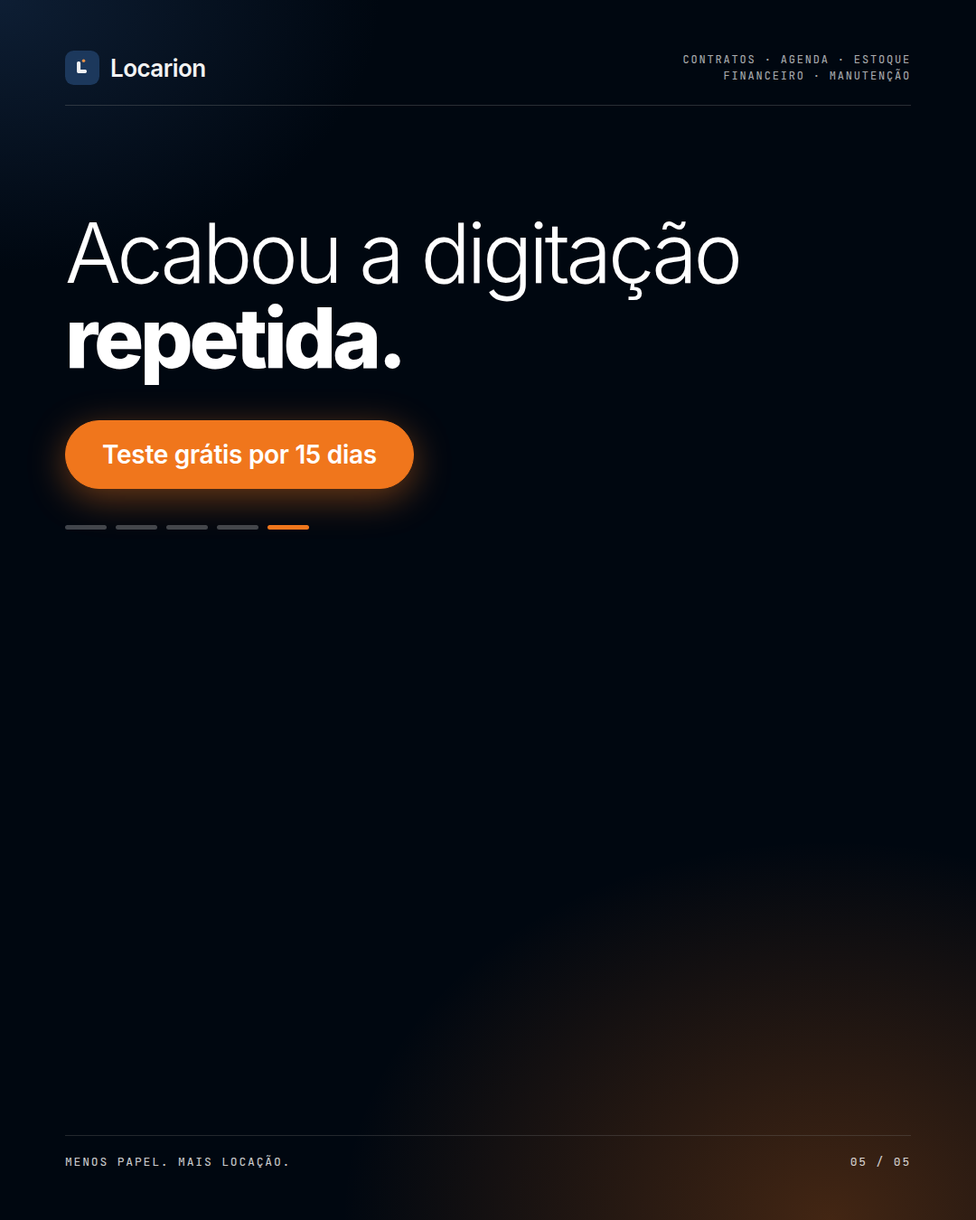
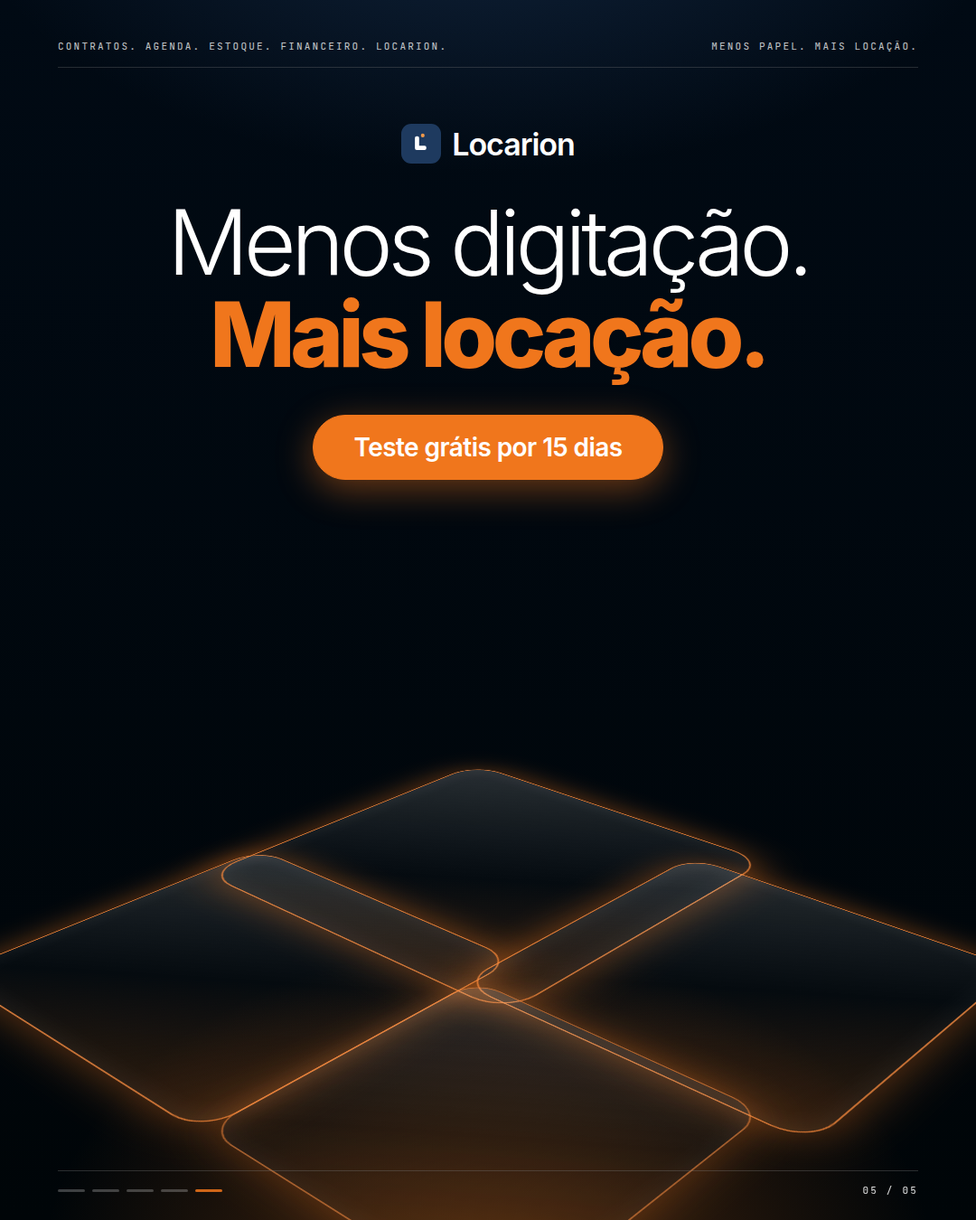
Restyle Locarion posts closer to Behance reference
Centered logo and headline, micro-caps header/footer rules, and
SVG/CSS 3D objects (ribbed fan, glass tiles, gem, phone with app icon)
in Locarion orange.

Claude-Session: https://claude.ai/code/session_017TwVGze7yevdfZZz7CFSM4

diff --git a/marketing/gerar-posts.js b/marketing/gerar-posts.js
@@ -8,127 +8,160 @@ const ROOT = path.resolve(__dirname, '..');
 const OUT = path.join(__dirname, 'posts');
 const A = (f) => 'file://' + path.join(ROOT, 'assets', f);
 
-const MARK = `<svg viewBox="0 0 32 32" width="38" height="38"><rect width="32" height="32" rx="8" fill="#1E3A5F"/><g transform="translate(4 4)"><path d="M8.4 6 L9 6 Q10.4 6 10.4 7.4 L10.4 13.6 L14.8 13.6 Q16.2 13.6 16.2 15 L16.2 15.6 Q16.2 17 14.8 17 L8.4 17 Q7 17 7 15.6 L7 7.4 Q7 6 8.4 6 Z" fill="#fff"/><circle cx="13.3" cy="5.4" r="1.5" fill="#F2994A"/></g></svg>`;
+const FONTS = fs.readFileSync(path.join(__dirname, 'fonts.css'), 'utf8');
+const MARK = (sz) => `<svg viewBox="0 0 32 32" width="${sz}" height="${sz}"><rect width="32" height="32" rx="8" fill="#1E3A5F"/><g transform="translate(4 4)"><path d="M8.4 6 L9 6 Q10.4 6 10.4 7.4 L10.4 13.6 L14.8 13.6 Q16.2 13.6 16.2 15 L16.2 15.6 Q16.2 17 14.8 17 L8.4 17 Q7 17 7 15.6 L7 7.4 Q7 6 8.4 6 Z" fill="#fff"/><circle cx="13.3" cy="5.4" r="1.5" fill="#F2994A"/></g></svg>`;
 
 // *negrito*  _negrito laranja_  \n quebra de linha
 const fmt = (s) => s.replace(/_(.+?)_/g, '<b class="o">$1</b>').replace(/\*(.+?)\*/g, '<b>$1</b>').replace(/\n/g, '<br>');
 
-const FONTS = fs.readFileSync(path.join(__dirname, 'fonts.css'), 'utf8');
 const CSS = FONTS + `
 *{box-sizing:border-box;margin:0;padding:0}
-:root{--orange:#F0761C;--orange-d:#D9620F;--blue:#1E3A5F;--deep:#000710;--ink:#0F1013}
+:root{--orange:#F0761C;--orange-d:#D9620F;--blue:#1E3A5F;--deep:#000710}
 body{font-family:Inter,system-ui,sans-serif;width:1080px;-webkit-font-smoothing:antialiased}
-.s{position:relative;width:1080px;overflow:hidden;display:flex;flex-direction:column;padding:56px 72px}
-.dark{background:radial-gradient(900px 700px at 85% 100%,rgba(240,118,28,.28),transparent 60%),radial-gradient(700px 500px at 0% 0%,rgba(30,58,95,.45),transparent 60%),var(--deep);color:#fff}
-.light{background:radial-gradient(900px 600px at 90% 105%,rgba(240,118,28,.16),transparent 60%),linear-gradient(180deg,#fff,#EEF0F4);color:var(--ink)}
-.hd{display:flex;align-items:center;justify-content:space-between;font-family:'JetBrains Mono',monospace;font-size:13px;letter-spacing:.14em;text-transform:uppercase;opacity:.95;padding-bottom:22px;border-bottom:1px solid;border-color:rgba(127,127,127,.35)}
-.brand{display:flex;align-items:center;gap:12px;font-family:Inter;font-weight:600;font-size:26px;letter-spacing:-.02em;text-transform:none}
-.hd small{font-size:12px;opacity:.7;text-align:right;line-height:1.5}
-.ft{margin-top:auto;position:relative;z-index:2;display:flex;justify-content:space-between;font-family:'JetBrains Mono',monospace;font-size:13px;letter-spacing:.14em;text-transform:uppercase;padding-top:20px;border-top:1px solid rgba(127,127,127,.35);opacity:.8}
-.body{flex:1;display:flex;flex-direction:column;position:relative;padding:56px 0 36px}
-h1{font-weight:300;font-size:92px;line-height:1.02;letter-spacing:-.045em}
+.s{position:relative;width:1080px;overflow:hidden;display:flex;flex-direction:column;align-items:center;text-align:center;padding:44px 64px 0}
+.dark{background:radial-gradient(800px 600px at 50% 105%,rgba(240,118,28,.30),transparent 62%),radial-gradient(900px 500px at 50% -10%,rgba(30,58,95,.55),transparent 65%),linear-gradient(180deg,#010a14,#000508);color:#fff}
+.light{background:radial-gradient(900px 500px at 50% 0%,#fff,transparent 70%),linear-gradient(180deg,#F6F7F9,#DCDFE5);color:#0F1013}
+.top{width:100%;display:flex;justify-content:space-between;font-family:'JetBrains Mono',monospace;font-size:11px;letter-spacing:.2em;text-transform:uppercase;opacity:.75;padding-bottom:16px;border-bottom:1px solid rgba(127,127,127,.4);z-index:3}
+.logo{display:flex;align-items:center;gap:12px;font-weight:600;font-size:34px;letter-spacing:-.03em;margin-top:62px;z-index:3}
+.chip{margin-top:30px;font-family:'JetBrains Mono',monospace;font-size:14px;letter-spacing:.2em;text-transform:uppercase;color:var(--orange);z-index:3}
+.light .chip{color:var(--orange-d)}
+h1{font-weight:300;font-size:100px;line-height:1.02;letter-spacing:-.055em;margin-top:36px;z-index:3}
 h1 b{font-weight:800}
 h1 b.o{color:var(--orange)}
 .light h1 b.o{color:var(--orange-d)}
-.sub{margin-top:30px;font-size:34px;font-weight:400;letter-spacing:-.02em;opacity:.8;line-height:1.25}
+.sub{margin-top:26px;font-size:34px;font-weight:300;letter-spacing:-.03em;line-height:1.2;opacity:.9;z-index:3}
 .sub b{font-weight:600}
-.pill{display:inline-flex;align-self:flex-start;margin-top:44px;border:1.5px solid;border-color:currentColor;border-radius:999px;padding:20px 40px;font-size:28px;font-weight:400;letter-spacing:-.01em}
+.pill{margin-top:38px;border:1.5px solid currentColor;border-radius:999px;padding:18px 44px;font-size:28px;font-weight:300;letter-spacing:-.02em;z-index:3}
 .pill.fill{background:var(--orange);border-color:var(--orange);color:#fff;font-weight:600;box-shadow:0 10px 40px rgba(240,118,28,.45)}
-.chip{display:inline-block;align-self:flex-start;font-family:'JetBrains Mono',monospace;font-size:15px;letter-spacing:.14em;text-transform:uppercase;color:var(--orange);border:1px solid var(--orange);border-radius:999px;padding:8px 16px;margin-bottom:30px}
-.light .chip{color:var(--orange-d);border-color:var(--orange-d)}
-.shot{position:absolute;border-radius:22px;box-shadow:0 40px 90px rgba(0,0,0,.45),0 0 0 1px rgba(127,127,127,.25)}
-.num{font-family:'JetBrains Mono',monospace;font-size:15px;letter-spacing:.14em;color:var(--orange);margin-bottom:24px}
-.big{font-weight:800;font-size:250px;letter-spacing:-.06em;line-height:.9;color:var(--orange)}
-.light .big{color:var(--orange-d)}
-.dots{display:flex;gap:10px;margin-top:40px}
-.dots i{width:46px;height:5px;border-radius:3px;background:currentColor;opacity:.25}
+.bigp{font-weight:800;font-size:230px;letter-spacing:-.07em;line-height:.9;margin-top:34px;color:var(--orange);z-index:3}
+.light .bigp{color:var(--orange-d)}
+.obj{position:absolute;left:0;right:0;bottom:0;pointer-events:none;z-index:1}
+.foot{position:absolute;left:64px;right:64px;bottom:26px;display:flex;justify-content:space-between;align-items:center;font-family:'JetBrains Mono',monospace;font-size:11px;letter-spacing:.2em;text-transform:uppercase;padding-top:14px;border-top:1px solid rgba(127,127,127,.4);opacity:.85;z-index:4}
+.dots{display:flex;gap:8px}
+.dots i{width:30px;height:3px;border-radius:2px;background:currentColor;opacity:.28}
 .dots i.on{background:var(--orange);opacity:1}
-.orb{position:absolute;border-radius:50%;background:radial-gradient(circle at 30% 28%,#FFB070,#F0761C 45%,#B9480A 100%);box-shadow:0 40px 90px rgba(240,118,28,.45)}
-.light .orb{opacity:.95}
+.tile{position:absolute;border-radius:44px;border:2px solid rgba(255,140,60,.75);background:linear-gradient(145deg,rgba(255,255,255,.16),rgba(255,255,255,.02) 55%,rgba(240,118,28,.20));box-shadow:0 0 60px rgba(240,118,28,.45),inset 0 0 40px rgba(255,255,255,.07);transform:rotateX(62deg) rotateZ(42deg)}
+.phone{position:absolute;border-radius:70px;background:#0b0e13;border:10px solid #1b1f26;box-shadow:0 0 0 2px #3a3f48,0 50px 100px rgba(0,0,0,.55);overflow:hidden}
+.phone img{width:100%;display:block}
+.icon{position:absolute;border-radius:60px;background:#1E3A5F;box-shadow:0 40px 80px rgba(0,0,0,.45),inset 0 3px 0 rgba(255,255,255,.25);display:flex;align-items:center;justify-content:center}
+.shotimg{position:absolute;left:50%;transform:translateX(-50%);border-radius:28px 28px 0 0;box-shadow:0 -10px 90px rgba(240,118,28,.25),0 0 0 1px rgba(127,127,127,.35)}
 `;
 
-function slide(s, i, total) {
-  const H = s.h || 1350;
-  const counter = total > 1 ? `${String(i + 1).padStart(2, '0')} / ${String(total).padStart(2, '0')}` : 'locarion.app';
-  const dots = total > 1 ? `<div class="dots">${Array.from({ length: total }, (_, k) => `<i class="${k === i ? 'on' : ''}"></i>`).join('')}</div>` : '';
-  let inner = '';
-  const head = `${s.chip ? `<div class="chip">${s.chip}</div>` : ''}${s.num ? `<div class="num">${s.num}</div>` : ''}<h1 ${s.fs ? `style="font-size:${s.fs}px"` : ''}>${fmt(s.t)}</h1>${s.sub ? `<div class="sub">${fmt(s.sub)}</div>` : ''}${s.cta ? `<div class="pill ${s.fill ? 'fill' : ''}">${s.cta}</div>` : ''}`;
-  if (s.kind === 'shot') {
-    inner = `${head}<img class="shot" src="${A(s.img)}" style="${s.pos}">`;
-  } else if (s.kind === 'phone') {
-    inner = `<div style="max-width:560px">${head}</div><img class="shot" src="${A('celular-escuro.webp')}" style="width:340px;right:70px;bottom:96px;transform:rotate(4deg);border-radius:40px;border:8px solid #15191E">`;
-  } else if (s.kind === 'big') {
-    inner = `${s.chip ? `<div class="chip">${s.chip}</div>` : ''}<div class="big">${s.big}</div>${head.replace(/<div class="chip">.*?<\/div>/, '')}`;
-  } else {
-    inner = `<div style="margin-top:${s.mt ?? 60}px">${head}</div>${s.orb ? `<div class="orb" style="${s.orb}"></div>` : ''}`;
+// ---------- objetos 3D (SVG/CSS) ----------
+function fan(W, H, dark) {
+  const n = 31, cx = W / 2, cy = H + 140, R = H + 40, parts = [];
+  for (let k = 0; k < n; k++) {
+    const t = k / (n - 1), a = -66 + t * 132, hi = Math.max(0, 1 - Math.abs(a - 16) / 70);
+    const mid = `hsl(${22 + hi * 12} 95% ${34 + hi * 26}%)`, bright = `hsl(${28 + hi * 10} 100% ${58 + hi * 30}%)`;
+    parts.push(`<linearGradient id="f${k}" x1="0" x2="1"><stop offset="0" stop-color="#2a0c00"/><stop offset=".38" stop-color="${mid}"/><stop offset=".52" stop-color="${bright}"/><stop offset="1" stop-color="#2a0c00"/></linearGradient>
+    <rect x="${cx - 24}" y="${cy - R}" width="48" height="${R}" rx="24" fill="url(#f${k})" transform="rotate(${a} ${cx} ${cy})"/>`);
   }
+  return `<svg viewBox="0 0 ${W} ${H}" width="${W}" height="${H}"><defs><filter id="gl"><feGaussianBlur stdDeviation="14"/></filter></defs><g filter="url(#gl)" opacity=".5">${parts[15]}</g>${parts.join('')}</svg>`;
+}
+function gem(sz) {
+  const P = (pts, a, b, op = 1) => `<polygon points="${pts}" fill="url(#g${a}${b})" stroke="rgba(255,255,255,.45)" stroke-width="1.5" opacity="${op}"/>`;
+  const gr = (id, c1, c2) => `<linearGradient id="g${id}" x1="0" y1="0" x2="1" y2="1"><stop offset="0" stop-color="${c1}"/><stop offset="1" stop-color="${c2}"/></linearGradient>`;
+  return `<svg viewBox="0 0 600 560" width="${sz}" height="${sz * 560 / 600}"><defs>
+  ${gr('aa', '#FFE2C2', '#FF9A4A')}${gr('bb', '#FFB26B', '#C85408')}${gr('cc', '#FF8A2E', '#7A2C00')}${gr('dd', '#FFD2A0', '#E0690F')}${gr('ee', '#B24A06', '#3F1400')}${gr('ff', '#FFC48A', '#D8620C')}
+  <filter id="sh"><feGaussianBlur stdDeviation="20"/></filter></defs>
+  <ellipse cx="300" cy="540" rx="230" ry="22" fill="#000" opacity=".28" filter="url(#sh)"/>
+  ${P('80,220 190,110 190,220', 'a', 'a')}${P('190,110 190,220 300,220', 'd', 'd')}${P('190,110 410,110 300,220', 'a', 'a', .95)}${P('410,110 300,220 410,220', 'f', 'f')}${P('410,110 520,220 410,220', 'b', 'b')}
+  ${P('80,220 190,220 300,520', 'c', 'c')}${P('190,220 300,220 300,520', 'b', 'b')}${P('300,220 410,220 300,520', 'd', 'd')}${P('410,220 520,220 300,520', 'e', 'e')}</svg>`;
+}
+const tiles = () => `<div style="position:absolute;left:0;right:0;bottom:0;height:640px;perspective:1600px;overflow:hidden">
+ <div class="tile" style="width:440px;height:440px;left:40px;bottom:60px"></div>
+ <div class="tile" style="width:440px;height:440px;left:320px;bottom:170px"></div>
+ <div class="tile" style="width:440px;height:440px;left:600px;bottom:50px"></div>
+ <div class="tile" style="width:440px;height:440px;left:320px;bottom:-110px;opacity:.75"></div></div>`;
+const blob = (c1, c2) => `<svg viewBox="0 0 1080 620" width="1080" height="620" style="position:absolute;left:0;bottom:0"><defs><linearGradient id="bl" x1="0" y1="0" x2="1" y2="1"><stop offset="0" stop-color="${c1}"/><stop offset="1" stop-color="${c2}"/></linearGradient></defs><path d="M0 330 C140 190 330 210 470 300 C640 410 760 250 920 230 C1010 220 1060 250 1080 270 L1080 620 L0 620Z" fill="url(#bl)"/><path d="M0 470 C180 400 330 430 430 500 C520 560 600 560 700 520 L700 620 L0 620Z" fill="#FFB070" opacity=".5"/></svg>`;
+
+function object(kind, o, H, dark) {
+  const off = H > 1400 ? 300 : 0;
+  switch (kind) {
+    case 'fan': return `<div class="obj" style="height:${640 + off}px">${fan(1080, 600 + off, dark)}</div>`;
+    case 'gem': return `<div class="obj" style="height:${620 + off}px;display:flex;justify-content:center;align-items:flex-end;padding-bottom:95px">${gem(560 + off / 2)}</div>`;
+    case 'tiles': return `<div class="obj" style="height:${640 + off}px">${tiles()}</div>`;
+    case 'phone': return `<div class="obj" style="height:${760 + off}px">${blob('#FF9A4A', '#D9620F')}
+      <div class="icon" style="width:190px;height:190px;left:70px;bottom:250px;transform:rotate(-14deg)">${MARK(130)}</div>
+      <div class="phone" style="width:460px;height:760px;left:50%;margin-left:-190px;bottom:-190px;transform:rotate(7deg)"><img src="${A('celular-escuro.webp')}"></div></div>`;
+    case 'shot': return `<div class="obj" style="height:${760 + off}px">${blob('#FF9A4A', '#D9620F').replace('<path d="M0 470', '<path style="display:none" d="M0 470')}
+      <img class="shotimg" src="${A(o.img)}" style="width:${o.w || 940}px;bottom:${o.b ?? -20}px"></div>`;
+    default: return '';
+  }
+}
+
+function slide(s, i, total) {
+  const H = s.h || 1350, dark = s.theme === 'dark';
+  const dots = total > 1 ? `<div class="dots">${Array.from({ length: total }, (_, k) => `<i class="${k === i ? 'on' : ''}"></i>`).join('')}</div>` : '<span></span>';
+  const obj = s.obj ? object(s.obj, s, H, dark) : '';
   return `<html><head><style>${CSS}</style></head><body><div class="s ${s.theme}" style="height:${H}px">
-  <div class="hd"><div class="brand">${MARK}Locarion</div><small>Contratos · Agenda · Estoque<br>Financeiro · Manutenção</small></div>
-  <div class="body">${inner}${s.nodots ? '' : dots}</div>
-  <div class="ft"><span>Menos papel. Mais locação.</span><span>${counter}</span></div></div></body></html>`;
+  <div class="top"><span>Contratos. Agenda. Estoque. Financeiro. Locarion.</span><span>Menos papel. Mais locação.</span></div>
+  <div class="logo">${MARK(44)}Locarion</div>
+  ${s.chip ? `<div class="chip">${s.chip}</div>` : ''}
+  ${s.big ? `<div class="bigp">${s.big}</div>` : ''}
+  <h1 ${s.fs ? `style="font-size:${s.fs}px"` : ''}>${fmt(s.t)}</h1>
+  ${s.sub ? `<div class="sub">${fmt(s.sub)}</div>` : ''}
+  ${s.cta ? `<div class="pill ${s.fill ? 'fill' : ''}">${s.cta}</div>` : ''}
+  ${obj}
+  <div class="foot">${dots}<span>${total > 1 ? `${String(i + 1).padStart(2, '0')} / ${String(total).padStart(2, '0')}` : 'locarion.app'}</span></div></div></body></html>`;
 }
 
 const D = 'dark', L = 'light';
 const posts = {
   '01-carrossel-caderno': [
-    { theme: D, chip: 'Para donos de locadora', t: 'Sua locadora ainda roda no _caderno_ e no *WhatsApp?*', sub: 'Menos improviso. *Mais controle.*', orb: 'width:420px;height:420px;right:-130px;bottom:60px', mt: 30 },
-    { theme: L, num: '01', t: 'Quantas vezes você já alugou o que _não tinha_ no pátio?', orb: 'width:300px;height:300px;right:-80px;bottom:80px' },
-    { theme: D, num: '02', t: 'Contrato digitado *na mão*, de novo.', orb: 'width:300px;height:300px;right:-80px;bottom:80px' },
-    { theme: L, num: '03', t: 'Devolução esquecida = equipamento parado e _dinheiro perdido._', orb: 'width:300px;height:300px;right:-80px;bottom:80px' },
-    { theme: D, num: '04', t: 'Cobrança: “_quem ainda não pagou?_” e ninguém sabe.', orb: 'width:300px;height:300px;right:-80px;bottom:80px' },
-    { theme: L, t: 'Existe um jeito *mais simples.*', sub: 'Contrato, agenda, estoque e financeiro num lugar só.', cta: 'Teste grátis por 15 dias', fill: true },
+    { theme: D, t: 'Sua locadora ainda roda\nno _caderno_ e no *WhatsApp?*', sub: 'Menos improviso. *Mais controle.*', fs: 84, obj: 'phone' },
+    { theme: L, chip: '01', t: 'Quantas vezes você\njá alugou o que\n_não tinha_ no pátio?', fs: 88, obj: 'gem' },
+    { theme: D, chip: '02', t: 'Contrato digitado\n*na mão*, de novo.', obj: 'fan' },
+    { theme: L, chip: '03', t: 'Devolução esquecida =\n*equipamento parado*\ne _dinheiro perdido._', fs: 84, obj: 'gem' },
+    { theme: D, chip: '04', t: 'Cobrança:\n“_quem ainda não pagou?_”\nE ninguém sabe.', fs: 86, obj: 'tiles' },
+    { theme: L, t: 'Existe um jeito\n*mais simples.*', sub: 'Contrato, agenda, estoque e financeiro\n*num lugar só.*', cta: 'Teste grátis por 15 dias', obj: 'phone' },
   ],
   '02-pergunta-equipamento': [
-    { theme: D, chip: 'Conta pra gente', t: 'Qual equipamento mais _some_ do seu controle?', sub: '*Betoneira*, *andaime*, *escora* ou *martelete?*', cta: 'Responda nos comentários', orb: 'width:380px;height:380px;right:-110px;bottom:140px' },
+    { theme: D, chip: 'Conta pra gente', t: 'Qual equipamento\nmais _some_ do\nseu controle?', sub: '*Betoneira, andaime, escora* ou *martelete?*', cta: 'Responda nos comentários', obj: 'fan' },
   ],
   '03-reels-capa': [
-    { theme: D, h: 1920, chip: 'Reels', t: 'Um dia na locadora _sem sistema._', sub: 'Tem que ser *assim?*', cta: 'Teste grátis · 15 dias', fill: true, mt: 220, fs: 110, orb: 'width:560px;height:560px;right:-180px;bottom:200px' },
+    { theme: D, h: 1920, chip: 'Reels', t: 'Um dia na locadora\n_sem sistema._', sub: 'Tem que ser *assim?*', cta: 'Teste grátis · 15 dias', fs: 104, obj: 'fan' },
   ],
   '04-agenda': [
-    { theme: L, chip: 'Agenda', t: 'O que *sai* hoje.\nO que _volta_ hoje.\nEm *uma tela.*', kind: 'shot', img: 'agenda-preview.png', pos: 'width:1500px;left:72px;bottom:96px;border-radius:22px 0 0 22px', fs: 82 },
+    { theme: L, chip: 'Agenda', t: 'O que *sai* hoje.\nO que _volta_ hoje.', sub: 'Retiradas e devoluções *em uma tela.*', cta: 'Conheça a agenda', obj: 'shot', img: 'agenda-preview.png', w: 1000, b: 110 },
   ],
   '05-carrossel-contrato': [
-    { theme: D, chip: 'Contratos', t: 'Seu contrato. *Do seu jeito.* _Preenchido sozinho._', mt: 30, orb: 'width:420px;height:420px;right:-130px;bottom:60px' },
-    { theme: L, num: '01', t: 'Você usa o *modelo da sua locadora.*', orb: 'width:300px;height:300px;right:-80px;bottom:80px' },
-    { theme: D, num: '02', t: '*Cliente, itens, datas e valores* entram _automáticos._', orb: 'width:300px;height:300px;right:-80px;bottom:80px' },
-    { theme: L, num: '03', t: 'A tarifa já sai por período.', sub: '*Diária · Semanal · Quinzenal · Mensal*', orb: 'width:300px;height:300px;right:-80px;bottom:80px' },
-    { theme: D, t: 'Acabou a digitação *repetida.*', cta: 'Teste grátis por 15 dias', fill: true },
+    { theme: D, t: 'Seu contrato.\n*Do seu jeito.*\n_Preenchido sozinho._', obj: 'tiles' },
+    { theme: L, chip: '01', t: 'Você usa o\n*modelo da sua\nlocadora.*', obj: 'gem' },
+    { theme: D, chip: '02', t: '*Cliente, itens, datas\ne valores* entram\n_automáticos._', fs: 88, obj: 'fan' },
+    { theme: L, chip: '03', t: 'A tarifa já sai\n*por período.*', sub: 'Diária · Semanal · Quinzenal · Mensal', obj: 'gem' },
+    { theme: D, t: 'Menos digitação.\n_Mais locação._', cta: 'Teste grátis por 15 dias', fill: true, obj: 'tiles' },
   ],
   '06-estoque': [
-    { theme: L, chip: 'Estoque por peça', t: 'Andaime e escora por _quantidade._', sub: 'Saldo *livre* x *alugado*, na hora.', kind: 'big', big: '', orb: 'width:420px;height:420px;right:-120px;bottom:100px' },
+    { theme: L, chip: 'Estoque por peça', t: 'Andaime e escora\npor _quantidade._', sub: 'Saldo *livre* x *alugado*, na hora.', obj: 'shot', img: 'painel-claro.webp', w: 940, b: 100 },
   ],
   '07-carrossel-financeiro': [
-    { theme: D, chip: 'Financeiro', t: 'Financeiro *sem susto.*', sub: 'Quem *pagou.* Quem *vai pagar.* Quem está _atrasado._', mt: 30, orb: 'width:420px;height:420px;right:-130px;bottom:60px' },
-    { theme: L, num: '01', t: '*Cliente por cliente.* Sem planilha paralela.', orb: 'width:300px;height:300px;right:-80px;bottom:80px' },
-    { theme: D, num: '02', t: 'Atraso vira _alerta_ na tela inicial.', orb: 'width:300px;height:300px;right:-80px;bottom:80px' },
-    { theme: L, num: '03', t: 'Exporta em *CSV* para o contador.', orb: 'width:300px;height:300px;right:-80px;bottom:80px' },
-    { theme: D, t: 'Coloque o atraso *na frente* dos seus olhos.', cta: 'Teste grátis por 15 dias', fill: true },
+    { theme: D, t: 'Quem *pagou.*\nQuem *vai pagar.*\nQuem está _atrasado._', obj: 'fan' },
+    { theme: L, chip: '01', t: '*Cliente por cliente.*\nSem planilha\nparalela.', obj: 'gem' },
+    { theme: D, chip: '02', t: 'Atraso vira\n_alerta_ na\ntela inicial.', obj: 'tiles' },
+    { theme: L, chip: '03', t: 'Exporta em *CSV*\npara o _contador._', obj: 'gem' },
+    { theme: D, t: 'Clareza\n_gera caixa._', sub: 'Financeiro organizado é locadora *mais lucrativa.*', cta: 'Teste grátis por 15 dias', fill: true, obj: 'fan' },
   ],
   '08-manutencao': [
-    { theme: D, chip: 'Manutenção', t: 'Equipamento na oficina *não pode ser alugado* _por engano._', sub: 'Registrou a manutenção, o item sai da lista de disponíveis.', fs: 84, orb: 'width:380px;height:380px;right:-110px;bottom:120px' },
+    { theme: D, chip: 'Manutenção', t: 'Na oficina,\n*fora da locação.*', sub: 'Registrou a manutenção, o item\nsai da lista de *disponíveis.*', obj: 'shot', img: 'painel-escuro.webp', w: 940, b: 100 },
   ],
   '09-reels-capa': [
-    { theme: L, h: 1920, chip: 'Ctrl + K', t: 'Achou em _3 segundos._', sub: 'Contrato, cliente ou equipamento, de *qualquer tela.*', mt: 220, fs: 120, orb: 'width:560px;height:560px;right:-180px;bottom:200px' },
+    { theme: L, h: 1920, chip: 'Ctrl + K', t: 'Achou em\n_3 segundos._', sub: 'Contrato, cliente ou equipamento,\nde *qualquer tela.*', fs: 120, obj: 'gem' },
   ],
   '10-carrossel-objecoes': [
-    { theme: D, chip: 'Perguntas que a gente ouve', t: 'Antes de testar, você *pergunta…*', mt: 30, orb: 'width:420px;height:420px;right:-130px;bottom:60px' },
-    { theme: L, num: '“Preciso instalar algo?”', t: '*Não.* Funciona no _navegador_ do computador e do celular.', orb: 'width:300px;height:300px;right:-80px;bottom:80px' },
-    { theme: D, num: '“E meus dados?”', t: 'Cada empresa *só vê* os _próprios dados._', orb: 'width:300px;height:300px;right:-80px;bottom:80px' },
-    { theme: L, num: '“Tem fidelidade?”', t: '*Não.* Mensal, sem multa e _sem taxa de implantação._', orb: 'width:300px;height:300px;right:-80px;bottom:80px' },
-    { theme: D, num: '“E se eu não gostar?”', t: '*Cancele quando quiser.*', sub: 'Comece com 15 dias grátis, sem cartão.', cta: 'locarion.app', fill: true },
+    { theme: D, t: 'Antes de testar,\nvocê *pergunta…*', obj: 'tiles' },
+    { theme: L, chip: '“Preciso instalar algo?”', t: '*Não.* Funciona\nno _navegador_ do\ncomputador e celular.', fs: 86, obj: 'phone' },
+    { theme: D, chip: '“E meus dados?”', t: 'Cada empresa\n*só vê* os\n_próprios dados._', obj: 'tiles' },
+    { theme: L, chip: '“Tem fidelidade?”', t: '*Não.* Mensal, sem\nmulta e _sem taxa\nde implantação._', fs: 88, obj: 'gem' },
+    { theme: D, chip: '“E se eu não gostar?”', t: '*Cancele\nquando quiser.*', sub: '15 dias grátis, sem cartão.', cta: 'locarion.app', fill: true, obj: 'fan' },
   ],
   '11-preco': [
-    { theme: L, chip: 'Plano único', kind: 'big', big: 'R$ 127', t: 'por mês. *Tudo incluso.* Sem _fidelidade._', sub: 'No plano anual: *R$ 1.397* (equivale a R$ 116,42/mês).', fs: 72 },
+    { theme: L, chip: 'Plano único', big: 'R$ 127', t: 'por mês. *Tudo incluso.*', fs: 64, sub: 'Sem fidelidade · Anual: *R$ 1.397* (R$ 116,42/mês)', cta: 'Teste grátis · 15 dias', fill: true, obj: 'gem' },
   ],
   '12-chamada-final': [
-    { theme: D, t: '*15 dias* para organizar sua locadora. _De graça._', sub: 'Sem cartão. Entre com sua conta Google.', cta: 'Começar em locarion.app', fill: true, mt: 40, orb: 'width:440px;height:440px;right:-140px;bottom:120px' },
+    { theme: D, t: '*15 dias* para\norganizar sua locadora.\n_De graça._', fs: 88, sub: 'Sem cartão. Entre com sua conta Google.', cta: 'Começar em locarion.app', fill: true, obj: 'phone' },
   ],
 };
-// ajustes visuais específicos
-posts['06-estoque'][0] = { theme: L, chip: 'Estoque por peça', t: 'Andaime e escora por _quantidade._', sub: 'Saldo *livre* x *alugado*, na hora.', kind: 'shot', img: 'painel-claro.webp', pos: 'width:1000px;left:72px;bottom:96px;border-radius:22px 0 0 22px', fs: 84 };
-posts['08-manutencao'][0] = { theme: D, chip: 'Manutenção', t: 'Equipamento na oficina *não pode ser alugado* _por engano._', kind: 'shot', img: 'painel-escuro.webp', pos: 'width:1000px;left:72px;bottom:96px;border-radius:22px 0 0 22px', fs: 74 };
-posts['01-carrossel-caderno'][0] = { theme: D, chip: 'Para donos de locadora', t: 'Sua locadora ainda roda no _caderno_ e no *WhatsApp?*', sub: 'Menos improviso. *Mais controle.*', kind: 'phone', fs: 76 };
-posts['11-preco'][0] = { theme: L, chip: 'Plano único', kind: 'big', big: 'R$ 127', t: 'por mês.\n*Tudo incluso.*\n_Sem fidelidade._', sub: 'Plano anual: *R$ 1.397* (R$ 116,42/mês).', fs: 76, cta: 'Teste grátis · 15 dias', fill: true };
 
 (async () => {
   fs.mkdirSync(OUT, { recursive: true });

diff --git a/marketing/calendario-posts.md b/marketing/calendario-posts.md
@@ -9,7 +9,7 @@
 ## Modelos visuais prontos
 As imagens (1080x1350; capas de reels em 1080x1920) estão em `marketing/posts/`, numeradas conforme os posts abaixo (ex.: `05-carrossel-contrato-03.png`).
 Para ajustar textos e regenerar: edite `marketing/gerar-posts.js` e rode `NODE_PATH=$(npm root -g) node marketing/gerar-posts.js`.
-Layout inspirado no Behance (títulos leve + negrito, alternando escuro e claro, botão contorno, cabeçalho e rodapé finos), com a identidade da Locarion (Inter, logo azul com ponto laranja, laranja `#F0761C`, JetBrains Mono nos microtextos, prints reais do painel).
+Layout fiel à referência do Behance (logo e título centralizados, peso leve + negrito, linha de microtexto no topo e no rodapé, botão contorno, objetos 3D de vidro em leque, ladrilhos, diamante e celular com ícone, alternando escuro e claro), com a identidade da Locarion (Inter, logo azul com ponto laranja, laranja `#F0761C`, JetBrains Mono nos microtextos, prints reais do painel).
 
 ## Direção visual
 - Paleta: laranja `#FF3D00` / `#D9620F`, azul `#1E3A5F`, fundo escuro `#000710`, branco.
